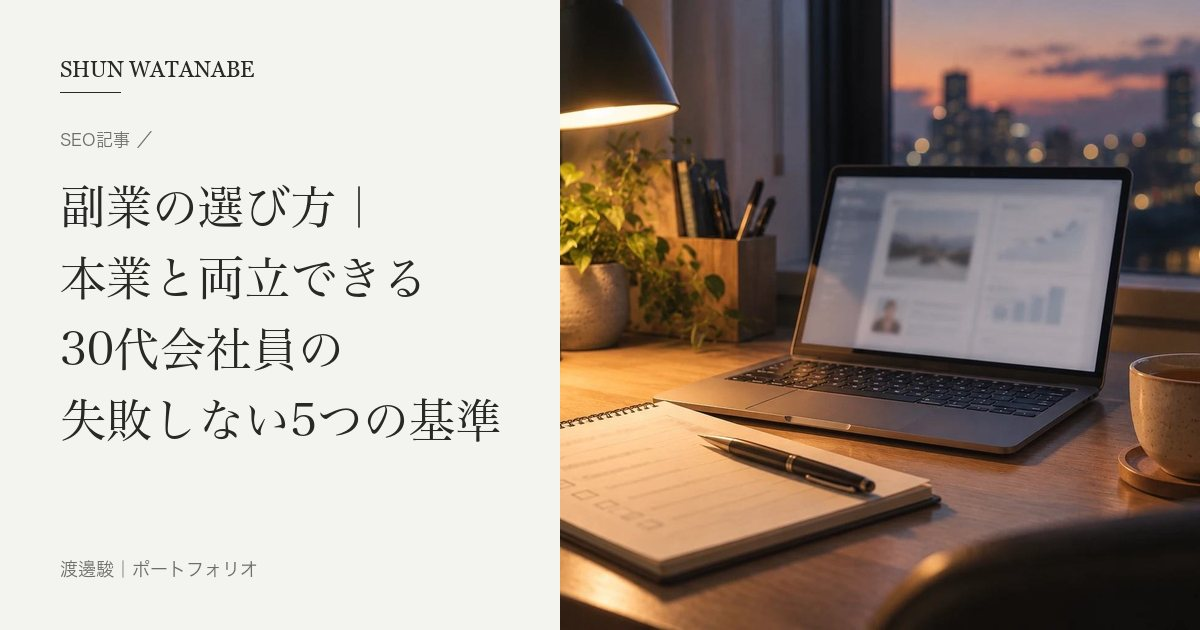
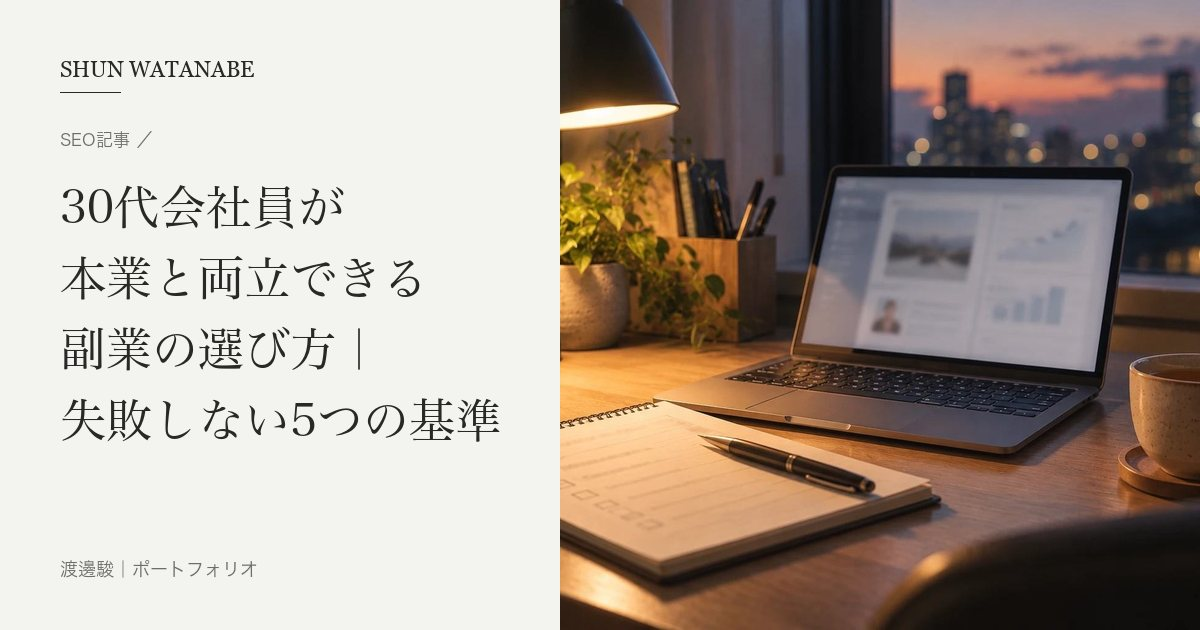
Add files via upload

Changed region(s): [[0.0308, 0.5127, 0.3083, 0.6032], [0.0308, 0.2714, 0.3083, 0.3619]]

diff --git a/article/side-job-selection-guide.html b/article/side-job-selection-guide.html
@@ -3,8 +3,8 @@
 <head>
 <meta charset="UTF-8">
 <meta name="viewport" content="width=device-width, initial-scale=1.0">
-<title>副業の選び方｜本業と両立できる30代会社員の失敗しない5つの基準 - 渡邊駿 執筆サンプル</title>
-<meta name="description" content="30代会社員が本業と両立できる副業を選ぶための5つの基準を解説します。マルチ商法等の怪しい勧誘への注意点や、確定申告・住民税・会社バレの仕組みといった税金の基礎知識まで、失敗しない副業選びのポイントを漏れなく幅広く詳しく紹介します。">
+<title>30代会社員が本業と両立できる副業の選び方｜失敗しない5つの基準 - 渡邊駿 執筆サンプル</title>
+<meta name="description" content="30代会社員が本業と両立できる副業を選ぶための5つの基準を解説します。マルチ商法等の怪しい勧誘への注意点や、確定申告・住民税・会社バレの仕組みといった税金の基礎知識まで、失敗しない副業選びのポイントを詳しく紹介します。">
 <link rel="stylesheet" href="../site.css">
 <link rel="stylesheet" href="../article.css">
 <!-- share:start -->
@@ -12,8 +12,8 @@
 <link rel="canonical" href="https://watanabeshun0828-cell.github.io/watachan-works-lp/article/side-job-selection-guide.html">
 <meta property="og:type" content="article">
 <meta property="og:site_name" content="渡邊駿｜ポートフォリオ">
-<meta property="og:title" content="副業の選び方｜本業と両立できる30代会社員の失敗しない5つの基準 - 渡邊駿 執筆サンプル">
-<meta property="og:description" content="30代会社員が本業と両立できる副業を選ぶための5つの基準を解説します。マルチ商法等の怪しい勧誘への注意点や、確定申告・住民税・会社バレの仕組みといった税金の基礎知識まで、失敗しない副業選びのポイントを漏れなく幅広く詳しく紹介します。">
+<meta property="og:title" content="30代会社員が本業と両立できる副業の選び方｜失敗しない5つの基準 - 渡邊駿 執筆サンプル">
+<meta property="og:description" content="30代会社員が本業と両立できる副業を選ぶための5つの基準を解説します。マルチ商法等の怪しい勧誘への注意点や、確定申告・住民税・会社バレの仕組みといった税金の基礎知識まで、失敗しない副業選びのポイントを詳しく紹介します。">
 <meta property="og:url" content="https://watanabeshun0828-cell.github.io/watachan-works-lp/article/side-job-selection-guide.html">
 <meta property="og:image" content="https://watanabeshun0828-cell.github.io/watachan-works-lp/img/og/article-side-job-selection-guide.jpg">
 <meta property="og:image:width" content="1200">
@@ -39,8 +39,8 @@
 <header class="head">
   <div class="wrap">
     <span class="eyebrow"><span class="nb">SEO記事 ／</span><span class="nb">想定キーワード「副業 選び方 会社員」</span></span>
-    <h1><span class="nb">副業の選び方｜</span><span class="nb">本業と両立できる</span><span class="nb">30代会社員の</span><span class="nb">失敗しない5つの基準</span></h1>
-    <p class="meta"><span>約3,500字</span><span>競合リサーチ・見出し構成込み</span><span>執筆：渡邊 駿</span></p>
+    <h1><span class="nb">30代会社員が</span><span class="nb">本業と両立できる</span><span class="nb">副業の選び方｜</span><span class="nb">失敗しない5つの基準</span></h1>
+    <p class="meta"><span>約3,400字</span><span>競合リサーチ・見出し構成込み</span><span>執筆：渡邊 駿</span></p>
   </div>
 </header>
 
@@ -51,16 +51,16 @@
       <img src="img/sidejob-hero.jpg" alt="夕方のデスクに置かれたノートパソコンとチェックリスト">
     </figure>
 
-    <p>副業を始めてみたけれど、本業がおろそかになってしまった。思ったより稼げず、続かなかった。そんな失敗をしていませんか。副業選びで失敗しないためのポイントは、いきなり「稼げる副業」を探さないことです。自分の時間・費用・会社の規則と照らし合わせて選ぶことが大切です。この記事では、30代会社員が本業と両立できる副業を選ぶための5つの基準を解説します。</p>
+    <p>「副業を始めたら本業がおろそかになった」「思ったより稼げず続かなかった」——そんな失敗をしていませんか。副業選びで失敗しないためのポイントは、いきなり「稼げる副業」を探さないことです。時間・費用・会社の規則、そして自分のスキルや目的と照らし合わせて選ぶことが大切です。この記事では、30代会社員が本業と両立できる副業を選ぶための5つの基準を解説します。</p>
 
     <h2>副業選びで失敗する会社員に共通する原因</h2>
     <figure>
       <img src="img/sidejob-tired.jpg" alt="疲れた表情でパソコンに向かう様子">
     </figure>
-    <p>副業で失敗してしまう人には、いくつか共通するパターンがあります。最初のやる気は十分でも、思っていたのと違う形でつまずいてしまうケースが少なくありません。焦って始めた結果、途中で挫折してしまう人も多く見られます。失敗のパターンをあらかじめ知っておけば、同じ轍を踏まずに済みます。まずは、よくある2つの失敗パターンを見ていきましょう。</p>
+    <p>副業で失敗してしまう人には、いくつか共通するパターンがあります。最初のやる気は十分でも、思っていたのと違う形でつまずいてしまうケースがよくあります。焦って始めた結果、途中で挫折してしまう人も多く見られます。失敗のパターンをあらかじめ知っておけば、同じ轍を踏まずに済みます。まずは、よくある2つの失敗パターンを見ていきましょう。</p>
 
     <h3>いきなり「稼げる副業」を探してしまうから</h3>
-    <p>「効率よく稼げる副業」という情報だけを頼りに始めてしまうと、続かなくなることがあります。自分の生活リズムやスキルに合わないまま選んでしまうためです。稼げる金額の大きさだけに気を取られると、実際に手を動かしてみたときのギャップに苦しむことも少なくありません。稼げるかどうかよりも先に、自分に合っているかどうかを確認することが大切です。</p>
+    <p>「効率よく稼げる副業」という情報だけを頼りに始めてしまうと、続かなくなることがあります。自分の生活リズムやスキルに合わないまま選んでしまうためです。稼げる金額の大きさだけに気を取られると、実際に手を動かしてみたときのギャップに苦しむこともあります。稼げるかどうかよりも先に、自分に合っているかどうかを確認することが大切です。</p>
 
     <h3>本業への影響を考えずに始めてしまうから</h3>
     <p>副業に力を入れすぎて睡眠時間を削り、本業のパフォーマンスが落ちてしまうケースも少なくありません。副業で得られる収入以上に、本業での評価や信頼を失ってしまっては本末転倒です。両立を意識せずに始めてしまうと、結果的にどちらも中途半端になりかねません。本業あっての副業という前提を忘れずに、無理のない範囲で取り組む必要があります。</p>
@@ -69,31 +69,31 @@
     <figure>
       <img src="img/sidejob-checklist.jpg" alt="チェックリストを確認しながら計画を立てる様子">
     </figure>
-    <p>失敗を避けるために、次の5つの基準で副業を選んでみましょう。どれか一つだけを見て判断するのではなく、複数の視点から自分に合っているかを確認することが大切です。基準を一つずつ照らし合わせていくことで、自分に合わない副業を早い段階で見分けられるようになります。ここで紹介する5つの基準を、副業選びの土台として活用してください。</p>
+    <p>失敗を避けるために、次の5つの基準で副業を選んでみましょう。どれか一つだけを見て判断するのではなく、複数の視点から自分に合っているかを確認することが大切です。基準を一つずつ照らし合わせていくことで、自分に適さない副業を早い段階で見分けられるようになります。ここで紹介する5つの基準を、副業選びの土台として活用してください。</p>
 
     <h3>基準1：就業規則で副業が許可されているか確認する</h3>
-    <p>まず確認すべきは、勤務先の就業規則です。副業が全面禁止されている会社もあれば、届出制・許可制になっている会社もあります。知らずに始めてしまい、後から会社に指摘されて慌てるケースも実際にあります。処分の対象になってしまうと、本業にまで影響が及びかねません。規則を確認せずに始めてしまうと、後からトラブルになる可能性もあります。着手前に必ず確認しましょう。</p>
+    <p>まず確認すべきは、勤務先の就業規則です。副業が全面禁止されている会社もあれば、届出制・許可制になっている会社もあります。知らずに始めてしまい、後から会社に指摘されて慌てるケースも実際にあります。確認せずに始めると、処分の対象になって本業にまで影響が及ぶおそれもあります。着手前に必ず確認しましょう。</p>
 
     <h3>基準2：本業に支障が出ない時間帯で完結するか</h3>
-    <p>30代は本業でも責任あるポジションを任されることが多く、まとまった時間を取りにくい世代です。急な残業や休日出勤が入ることも珍しくなく、副業の時間が確保しにくくなる場面もあります。無理なスケジュールを組んでしまうと、体調を崩す原因にもなりかねません。平日の夜や土日など、本業に影響が出ない時間帯だけで完結できる副業かどうかを見極めましょう。</p>
+    <p>30代は本業で責任あるポジションを任されることが多く、まとまった時間を取りにくい世代です。急な残業や休日出勤が入ることも珍しくなく、副業の時間が確保しにくくなる場面もあります。無理なスケジュールを組んでしまうと、体調を崩す原因にもなりかねません。平日の夜や土日など、本業に影響が出ない時間帯だけで完結できる副業かどうかを見極めましょう。</p>
 
     <h3>基準3：初期費用がかからず、低リスクで始められるか</h3>
-    <p>副業の中には、教材やツールの購入で初期費用がかさむものもあります。中には、稼げる保証もないまま高額な講座やツールを勧められるケースもあるため注意が必要です。始めてみたものの、合わずにやめてしまい、初期費用だけが手元に残ることも珍しくありません。始めてみて合わなかった場合に赤字にならないよう、まずは初期費用が少ない、もしくはかからない副業から試すのがおすすめです。</p>
+    <p>副業の中には、教材やツールの購入で初期費用がかさむものもあります。始めてみたものの、合わずにやめてしまい、使わなくなった教材やツールだけが手元に残ることも珍しくありません。始めてみて合わなかった場合に赤字にならないよう、まずは初期費用が少ない、もしくはかからない副業から試すのがおすすめです。</p>
 
     <h3>基準4：これまでの経験・スキルを活かせるか</h3>
-    <p>30代は、本業やこれまでの経験で培ってきたスキルがあります。何もない状態から新しいスキルを一から学ぶより、すでに持っている強みを活かす方が、成果につながるまでの時間を短くできます。周囲からも即戦力として頼られやすく、自信にもつながりやすい選び方です。全くの未経験分野から始めるより、今持っているスキルを活かせる副業を選んだ方が、効率よく成果につながりやすくなります。</p>
+    <p>30代の多くは、本業やこれまでの経験で培ってきたスキルを持っています。何もない状態から新しいスキルを一から学ぶより、すでに持っている強みを活かす方が、成果につながるまでの時間を短くできます。クライアントからも即戦力として評価されやすく、自信にもつながりやすい選び方です。</p>
 
     <h3>基準5：何のために副業をするのか、目的が明確か</h3>
-    <p>「収入を増やしたいのか」「スキルを広げたいのか」「将来の独立に向けた準備なのか」など、副業をする目的は人それぞれです。目的によって選ぶべき副業も変わってきます。目的があいまいなままだと、忙しくなったときに「なぜ続けているんだっけ」と迷いが生まれやすくなるものです。目的が曖昧なまま始めると、途中でモチベーションを保てなくなることがあります。</p>
+    <p>「収入を増やしたいのか」「スキルを広げたいのか」「将来の独立に向けた準備なのか」など、副業をする目的は人それぞれです。目的によって選ぶべき副業も変わってきます。目的が曖昧なままだと、忙しくなったときに「なぜ続けているんだっけ」と迷い、モチベーションを保てなくなりがちです。</p>
 
     <h2>「怪しい副業」に注意する</h2>
-    <p>副業を探していると、「誰でも簡単に稼げる」という甘い言葉に惹かれてしまうことがあります。しかし、副業を装った悪質な勧誘やマルチ商法も少なからず存在するのが実情です。実際に、身近な友人からの紹介という形で誘われ、判断に迷うケースも見られます。ここでは、怪しい副業を見分けるために意識しておきたいポイントを紹介します。</p>
+    <p>副業を探していると、「誰でも簡単に稼げる」という甘い言葉に惹かれてしまうことがあります。しかし、副業を装った悪質な勧誘やマルチ商法も少なからず存在するのが実情です。ここでは、怪しい副業を見分けるために意識しておきたいポイントを紹介します。</p>
 
     <h3>「副業」を装ったマルチ商法・勧誘に注意する</h3>
-    <p>「副業を紹介する」と誘われ、実際には知人への勧誘やセミナーへの参加を求められるケースがあります。友人や知人からの誘いであっても、内容がはっきりしないまま「まず話だけ聞いて」と急かされる場合は注意が必要です。ネットワークビジネスやマルチ商法は、身近な人からの紹介という形をとることが多く、断りにくい状況を作られやすい点が特徴です。少しでも違和感を覚えたら、その場で即決せず、一度距離を置いて考える時間を持ちましょう。</p>
+    <p>「副業を紹介する」と誘われ、実際には知人への勧誘やセミナーへの参加を求められるケースがあります。友人や知人からの誘いであっても、内容がはっきりしないまま「まず話だけ聞いて」と急かされる場合は注意が必要です。ネットワークビジネスやマルチ商法は、身近な人からの紹介という形をとることが多く、断りにくい状況を作られやすい点が特徴です。少しでも違和感を覚えたら、その場で即決せず、一度距離を置いて考える時間を持ちましょう。困ったときは、消費者ホットライン（188）に相談しましょう。</p>
 
     <h3>高額な初期費用や教材を求める案件は避ける</h3>
-    <p>副業を始めるにあたり、高額な教材やスクール、ツールの購入を勧められることがあります。「初期投資をすれば必ず稼げるようになる」といった説明には、根拠が曖昧なケースも少なくありません。始める前に、その情報が本当に必要なのか、無料で得られる情報で代用できないかを確認しましょう。契約を急かされたり、その場での即決を求められたりする場合は、一度立ち止まることをおすすめします。</p>
+    <p>副業を始めるにあたり、高額な教材やスクール、ツールの購入を勧められることがあります。「初期投資をすれば必ず稼げるようになる」といった説明には、根拠が曖昧なケースも珍しくありません。始める前に、その情報が本当に必要なのか、無料で得られる情報で代用できないかを確認しましょう。契約を急かされたり、その場での即決を求められたりする場合は、一度立ち止まることをおすすめします。</p>
 
     <h2>会社員が副業で知っておきたい税金・会社バレの基礎知識</h2>
     <p>副業を始めるにあたり、税金や会社に知られることへの不安を感じる会社員は少なくありません。「確定申告はいくらから必要なのか」「住民税で会社にバレるのでは」といった疑問は、副業選び以前につまずきやすいポイントです。知らないまま始めてしまうと、後からトラブルになることもあります。ここでは、基本的な知識を整理しておきましょう。</p>
@@ -102,22 +102,22 @@
     <p>会社員が副業をして所得税の確定申告が必要になるのは、副業による所得が年間20万円を超える場合です。所得とは、収入から必要経費を差し引いた金額を指します。20万円以下であれば、所得税の確定申告は原則不要とされています。ただし、この20万円という基準はあくまで所得税の話であり、後述する住民税には当てはまらない点に注意が必要です。</p>
 
     <h3>住民税の申告は所得に関わらず必要</h3>
-    <p>所得税の確定申告が不要な場合でも、住民税の申告は所得額に関わらず必要です。「20万円ルール」は所得税だけの基準であり、住民税にはこうした非課税枠がありません。申告を怠ると、後から追徴課税を求められる可能性もあります。副業の所得がわずかであっても、お住まいの市区町村へ住民税の申告を行うようにしましょう。</p>
+    <p>所得税の確定申告が不要な場合でも、住民税の申告は所得額に関わらず必要です。「20万円ルール」は所得税だけの基準であり、住民税には、こうした申告不要の基準がありません。申告を怠ると、後から追徴課税を求められる可能性もあります。副業の所得がわずかであっても、お住まいの市区町村へ住民税の申告を行うようにしましょう。</p>
 
     <h3>会社に副業がバレる主な原因と対策</h3>
-    <p>会社に副業がバレる主な原因は、住民税の金額です。副業分の所得が本業の給与と合算されて住民税額が決まります。その結果、給与から天引きされる住民税額が増えるため、経理担当者が気づくケースがあるのです。これを避ける方法として、確定申告書の住民税に関する欄で「自分で納付（普通徴収）」を選択する方法があります。この手続きにより、副業分の住民税だけを自分で納付でき、会社の給与天引きには反映されなくなります。</p>
+    <p>会社に副業がバレる主な原因は、住民税の金額です。副業分の所得が本業の給与と合算されて住民税額が決まります。その結果、給与から天引きされる住民税額が増えるため、経理担当者が気づくケースがあるのです。これを避けるには、確定申告書の住民税に関する欄で「自分で納付（普通徴収）」を選択するとよいでしょう。副業が給与所得以外（事業所得・雑所得など）であれば、副業分の住民税を自分で納付でき、会社の給与天引きには反映されにくくなります。ただし、自治体によって扱いが異なるため、事前に確認しましょう。</p>
 
-    <h2>30代会社員におすすめの副業の探し方</h2>
+    <h2>副業を探す前にやっておきたい準備</h2>
     <figure>
       <img src="img/sidejob-schedule.jpg" alt="カレンダーとスマホでスケジュールを管理する様子">
     </figure>
-    <p>5つの基準を踏まえたうえで、実際にどう探せばいいのかを見ていきましょう。基準が分かっても、いきなり自分に合った副業を見つけるのは簡単ではありません。手当たり次第に探し始めると、かえって時間がかかってしまうこともあります。探し始める前に、少し準備をしておくだけで効率は大きく変わるものです。ここでは、やっておきたい2つの準備を紹介します。</p>
+    <p>5つの基準を踏まえたうえで、探し始める前の準備を見ていきましょう。基準が分かっても、いきなり自分に合った副業を見つけるのは簡単ではありません。手当たり次第に探し始めると、かえって時間がかかってしまうこともあります。探し始める前に、少し準備をしておくだけで効率は大きく変わるものです。ここでは、やっておきたい2つの準備を紹介します。</p>
 
     <h3>まずは自分の生活リズムと照らし合わせる</h3>
     <p>1週間のスケジュールを書き出し、実際にどれくらいの時間を副業に充てられるかを可視化してみましょう。感覚だけで「これくらいできそう」と判断すると、後から時間が足りなくなることもあります。紙に書き出すことで、思っていたより自由な時間が少ないと気づくきっかけになるでしょう。「平日夜1時間、土日は3時間」というように具体的な時間が見えると、無理のない副業量を判断しやすくなります。</p>
 
     <h3>スケジュール管理の仕組みを先に作っておく</h3>
-    <p>副業を始めてから両立に苦労しないよう、始める前に仕組みを整えておくと安心です。カレンダーアプリなどで、本業・副業・プライベートの予定を一括管理できるようにしておきましょう。予定を頭の中だけで管理しようとすると、抜け漏れやダブルブッキングが起こりやすくなります。あらかじめ仕組みを整えておけば、始めてから慌てずに済みます。</p>
+    <p>副業を始めてから両立に苦労しないよう、始める前に仕組みを整えておくと安心です。カレンダーアプリなどで、本業・副業・プライベートの予定を一括管理できるようにしておきましょう。予定を頭の中だけで管理しようとすると、抜け漏れやダブルブッキングが起こりやすくなります。</p>
 
     <h2>まとめ</h2>
     <figure>
@@ -127,7 +127,7 @@
       <li>副業選びで失敗する人は、いきなり「稼げるか」だけで判断し、本業への影響を考えていないことが多い</li>
       <li>「就業規則」「時間」「初期費用」「スキルの活用」「目的の明確さ」の5つの基準で選ぶことが、両立の鍵になる</li>
       <li>「副業」を装ったマルチ商法や高額教材の勧誘には注意する</li>
-      <li>確定申告の20万円ルールは所得税のみが対象で、住民税の申告は所得額に関わらず必要。会社バレが不安な場合は普通徴収への切り替えを検討する</li>
+      <li>確定申告の20万円ルールは所得税のみが対象で、住民税の申告は所得額に関わらず必要。会社バレが不安な場合は、副業が給与所得以外であれば普通徴収への切り替えを検討する</li>
       <li>始める前に生活リズムを可視化し、スケジュール管理の仕組みを整えておくとスムーズ</li>
     </ul>
     <p>いきなり大きな副業に挑戦する必要はありません。まずは自分の基準に合った、小さく始められる副業から試してみましょう。</p>

diff --git a/pricing.html b/pricing.html
@@ -169,7 +169,7 @@
     <div class="first-offer">
       <span class="first-offer-badge">先着3名様限定</span>
       <h3><span class="nb">初めての方向けの、</span><span class="nb">実績作り価格。</span></h3>
-      <p>HP制作 スタンダードを、先着3名様限定の<strong>モニター特別価格 60,000円</strong>でお受けします。実績として、制作したサイトや業種をご紹介させていただくことを条件とさせていただきます（お名前・社名の掲載可否はご相談に応じます）。</p>
+      <p>ホームページを、先着3名様限定の<strong>モニター特別価格</strong>でお受けします（3つのメニューを合わせて3名様）。WordPressで制作し、ご用意いただいたサーバーで公開するところまで行います。<br>・ペライチ（1ページ・原稿はご支給）　<strong class="nb">15,000円</strong><br>・複数ページ（5ページまで・文章作成込み・予約フォームつき）　<strong class="nb">30,000円</strong><br>・ネット販売つき（複数ページ＋商品10点まで）　<strong class="nb">50,000円</strong><br>修正は2回、納期は21営業日です。実績として、制作したサイトや業種をご紹介させていただくことを条件とさせていただきます（お名前・社名の掲載可否はご相談に応じます）。公開後の更新・保守は、お客様側でお願いしています（更新のしかたは、手順をお渡しします。公開後1か月以内の差し替えは、モニター価格には含みません）。</p>
     </div>
     <div class="plan-cards">
       <div class="plan-card">
@@ -221,10 +221,10 @@
         <tbody>
           <tr><td style="white-space:nowrap;vertical-align:top;">含まれるもの</td><td>構成、文章、デザイン、ページ制作（HTML）、スマホ対応、SEOの基本設定、公開後1か月以内の文字・画像の差し替え</td></tr>
           <tr><td style="white-space:nowrap;vertical-align:top;">公開作業</td><td>お客様がご用意したサーバーに、ページを載せて公開するところまで行います（HP制作の全プラン・LP制作 プレミアム）。サーバーとドメインの選び方・取り方も、ご説明します。</td></tr>
-          <tr><td style="white-space:nowrap;vertical-align:top;">含まれないもの</td><td>ドメイン・サーバーの費用（お客様のご負担）、写真の撮影、ネットショップの決済機能、会員機能</td></tr>
+          <tr><td style="white-space:nowrap;vertical-align:top;">含まれないもの</td><td>ドメイン・サーバーの費用（お客様のご負担）、写真の撮影、会員機能、カードなどの決済サービスの契約と手数料（お客様の名義でご契約いただきます）</td></tr>
           <tr><td style="white-space:nowrap;vertical-align:top;">写真</td><td>お客様のお写真、または素材サイトの写真を使います。AIで作った画像を使う場合は、事前にお伝えしてご相談します。</td></tr>
-          <tr><td style="white-space:nowrap;vertical-align:top;">問い合わせフォーム</td><td>Googleフォームなどの外部サービスとつなぎます。</td></tr>
-          <tr><td style="white-space:nowrap;vertical-align:top;">作る環境</td><td>HTMLでの制作が基本です。STUDIO・WordPressでの制作はご相談ください。</td></tr>
+          <tr><td style="white-space:nowrap;vertical-align:top;">問い合わせフォーム</td><td>Googleフォームなどの外部サービスとつなぎます。WordPressで作る場合は、サイトの中に設置します。</td></tr>
+          <tr><td style="white-space:nowrap;vertical-align:top;">作る環境</td><td>HTMLでの制作が基本です。STUDIO・WordPressでの制作はご相談ください。HP制作のモニター価格は、WordPressで制作します。</td></tr>
           <tr><td style="white-space:nowrap;vertical-align:top;">公開後の更新</td><td>1回 3,000円〜（月額の保守プランは、ご希望があればご相談ください）</td></tr>
         </tbody>
       </table>

diff --git a/hp.html b/hp.html
@@ -125,7 +125,7 @@
   <h2><span>PRICE</span></h2>
   <div class="body reveal">
     <p class="headline">HP制作は、40,000円〜（税込）です。</p>
-    <p>1〜3ページのライトプランは40,000円〜、文章作成込みで5ページ前後のスタンダードプランは100,000円〜です。いまは先着3名様に、スタンダードプランを実績作り価格（60,000円）でご案内しています。</p>
+    <p>1〜3ページのライトプランは40,000円〜、文章作成込みで5ページ前後のスタンダードプランは100,000円〜です。いまは先着3名様に、実績作り価格（ペライチ15,000円／複数ページ30,000円／ネット販売つき50,000円）でご案内しています。</p>
     <a class="btn line" href="pricing.html#hp">&gt; 料金と対応範囲を見る</a>
   </div>
 </section>
@@ -159,7 +159,7 @@
       </details>
       <details>
         <summary>公開したあと、自分で文章を直せますか？</summary>
-        <p class="a">HTMLで作るため、ご自身での文字の差し替えには少しコツが要ります。公開後1か月以内の差し替えは無料、その後は1回3,000円〜でお受けします。ご自身で更新したい場合は、STUDIO・WordPressでの制作をご相談ください。</p>
+        <p class="a">HTMLで作るため、ご自身での文字の差し替えには少しコツが要ります。公開後1か月以内の差し替えは無料、その後は1回3,000円〜でお受けします。ご自身で更新したい場合は、STUDIO・WordPressでの制作をご相談ください。HPのモニター価格はWordPressで制作し、更新のしかたの手順をお渡しします（公開後の更新・保守はお客様側です）。</p>
       </details>
       <details>
         <summary>Googleマップの情報も、見てもらえますか？</summary>

diff --git a/writer.html b/writer.html
@@ -57,7 +57,7 @@
         <img src="img/genre-sidejob.jpg" alt="夜のデスクでノートパソコンに向かう情景のイラスト">
         <div class="hero-read-body">
           <span class="rl">キャリア・副業</span>
-          <span class="rt"><span class="nb">副業の選び方｜</span><span class="nb">本業と両立できる</span><span class="nb">30代会社員の基準</span></span>
+          <span class="rt"><span class="nb">30代会社員が</span><span class="nb">本業と両立できる</span><span class="nb">副業の選び方</span></span>
           <span class="rm"><span class="nb">SEO記事・約1,600字／</span><span class="nb">競合リサーチ・見出し構成込み</span></span>
         </div>
       </a>
@@ -66,7 +66,7 @@
         <div class="hero-read-body">
           <span class="rl">お金・資産形成</span>
           <span class="rt"><span class="nb">新NISAの始め方｜</span><span class="nb">会社員が知っておきたい</span><span class="nb">手順・注意点</span></span>
-          <span class="rm"><span class="nb">SEO記事・約4,500字／</span><span class="nb">公的情報を原文引用で裏取り</span></span>
+          <span class="rm"><span class="nb">SEO記事・約5,600字／</span><span class="nb">公的情報を出典に執筆</span></span>
         </div>
       </a>
       <a class="hero-read reveal" href="article/parenting-reflection-essay.html">
